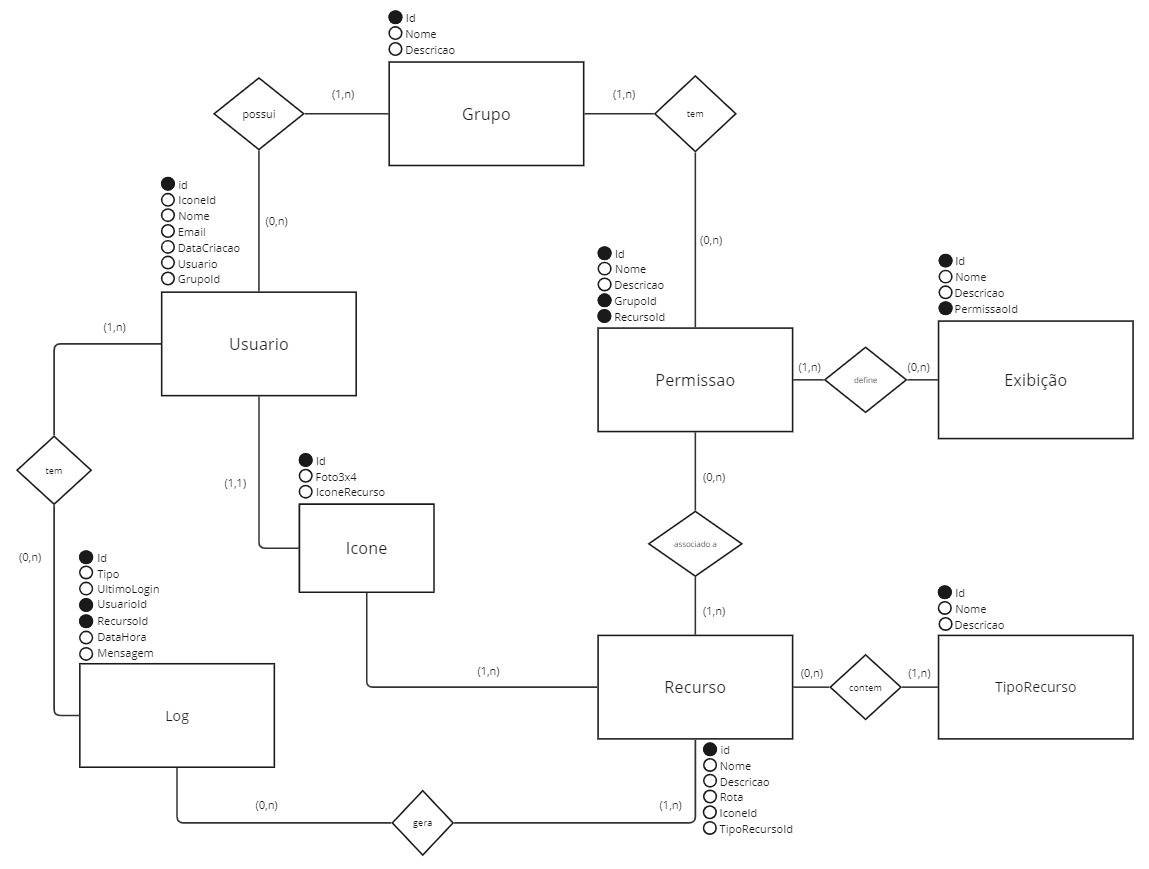
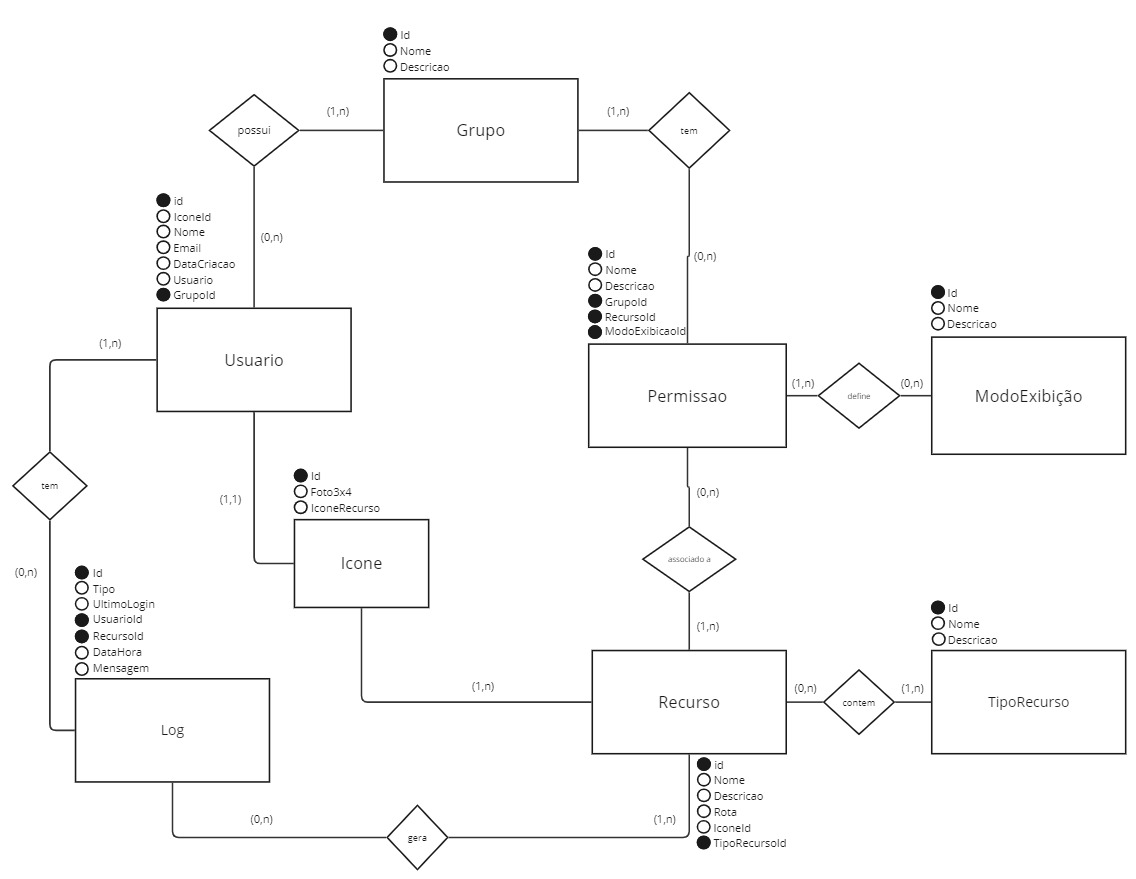
modificacção no banco , trazendo relacionamento diferente entre tabela de Modo Exibicao e Permissao

diff --git a/README.md b/README.md
@@ -55,12 +55,12 @@
    - **Descricao**: Descrição da permissão.
    - **GrupoId**: Chave estrangeira para a tabela `Grupo`.
    - **RecursoId**: Chave estrangeira para a tabela `Recurso`.
+   - **ModoExibicaoId**: Chave estrangeira para a tabela `ModoExibicao`.
 
-8. **Exibicao**
+8. **ModoExibicao**
    - **Id**: Identificador único.
    - **Nome**: Nome da exibição.
    - **Descricao**: descrição da exibição.
-   - **PermissaoId**: Chave estrangeira para a tabela `Permissao`.
 
 </details>
 
@@ -116,10 +116,10 @@
 - **Descricao**: STRING
 - **GrupoId**: INT (Chave estrangeira para `Grupo.Id`)
 - **RecursoId**: INT (Chave estrangeira para `Recurso.Id`)
+- **ModoExibicaoId**: INT (Chave estrangeira para `ModoExibicao.Id`)
 
-#### Exibicao
+#### ModoExibicao
 - **Id**: INT (Chave primária)
-- **PermissaoId**: INT (Chave estrangeira para `Permissao.Id`)
 - **Nome**: STRING
 - **Descricao**: STRING
 </details>
@@ -237,20 +237,20 @@ erDiagram
         STRING Descricao
         INT GrupoId FK
         INT RecursoId FK
+        INT ModoExibicaoId FK
     }
     
-    Exibicao {
+    ModoExibicao {
         INT Id PK
         STRING Nome
         STRING Descricao
-        INT PermissaoId FK
 
     }
     
     Grupo ||--o{ Usuario : "possui"
     Grupo ||--o{ Permissao : "tem"
     Permissao ||--o{ Recurso : "associado a"
-    Permissao ||--o{ Exibicao : "define"
+    Permissao ||--o{ ModoExibicao : "define"
     Usuario ||--o{ Log : "gera"
     Usuario ||--o{ Icone : "possui"
     Recurso ||--o{ Icone : "possui"
@@ -292,14 +292,18 @@ erDiagram
 - A aplicação "Sistema de Finanças" pode ter permissões associadas como "Visualizar Relatórios" e "Editar Dados".
 - O perfil "Perfil Completo" pode ter acesso a todas as permissões da aplicação "Sistema de Finanças", enquanto o perfil "Perfil Básico" pode ter acesso apenas à visualização de relatórios.
 
-### 4. **Permissao e Exibicao**
+Entendi, vamos revisar o texto conforme suas mudanças. A tabela `ModoExibicao` terá quatro tipos, e a `Permissao` terá uma chave estrangeira com o ID dessas exibições. Pode haver várias permissões para uma exibição. Aqui está a revisão:
 
-- **Relacionamento:** Uma permissão pode definir várias exibições, e cada exibição está associada a um único permissão.
-- **Importância:** Define quais elementos (como botões, seções, etc.) são visíveis para cada grupo. Isso é útil para personalizar a interface com base nas permissões.
+Entendi, você quer ter múltiplas permissões em um modo de exibição. Aqui está o texto revisado para refletir essa estrutura:
+
+### 4. **Permissão e ModoExibição**
+
+- **Relacionamento:** Uma exibição pode ter várias permissões associadas, e cada permissão está vinculada a um único modo de exibição.
+- **Importância:** Define quais elementos (como botões, seções, etc.) são visíveis e interativos para cada grupo. Isso permite personalizar a interface e as capacidades de interação com base nas permissões.
 
 **Exemplo:**
-- O perfil "Perfil Completo" pode ter exibições que mostram todas as seções do sistema.
-- O perfil "Perfil Básico" pode ter uma exibição que oculta seções avançadas.
+- O modo de exibição "Avançado" pode ter permissões de leitura, edição e CRUD (Create, Read, Update, Delete).
+- O modo de exibição "Básico" pode ter permissões apenas de leitura.
 
 ### 5. **Usuario e Log**
 
